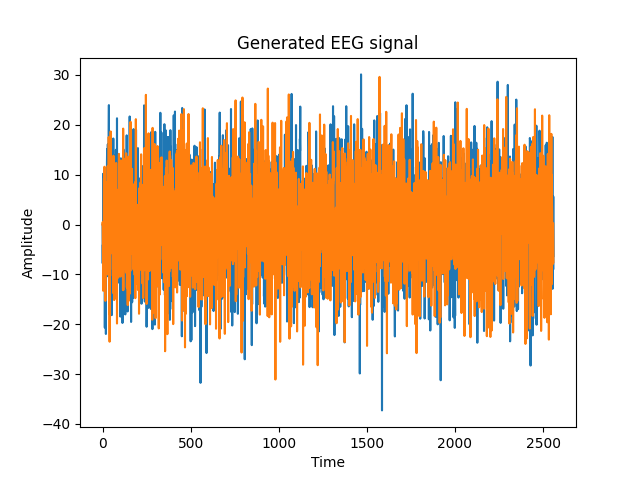
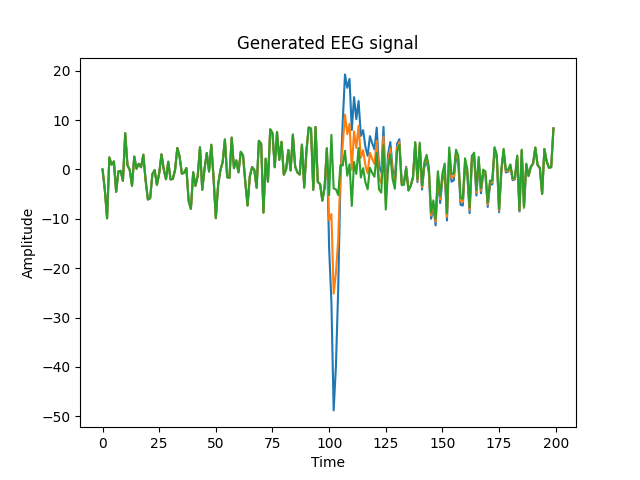
Implement method for creating blink artifact and method for multichannel EEG generation and visualization

diff --git a/templates/components/plot.html b/templates/components/plot.html
@@ -5,6 +5,9 @@
             <div class="card-body shadow-sm m-4">
                 <img src="../../static/signal.png" class="img-fluid" alt="Synthetic EEG signal">
             </div>
+            <div class="card-body shadow-sm m-4">
+                <img src="../../static/signal_multi.png" class="img-fluid" alt="Synthetic EEG signal">
+            </div>
         </div>
     </div>
 </div>

diff --git a/EEGGenerator.py b/EEGGenerator.py
@@ -1,6 +1,7 @@
 import numpy as np
 import random
 import matplotlib.pyplot as plt
+import scipy.signal
 import pandas as pd
 
 
@@ -90,6 +91,31 @@ class EEGGenerator(object):
 
         return eeg_signal
 
+    def simulate_multichannel_eeg(self, artifact=None):
+        low_peak_amplitude_value = -10
+        high_peak_amplitude_value = 10
+
+        alpha_waves = self.create_signal(start_time=self.start_time, end_time=self.end_time, fs=self.fs, 
+            low_peak_amplitude_value=low_peak_amplitude_value,
+            high_peak_amplitude_value=high_peak_amplitude_value,
+            low_frequency=8.0, high_frequency=13.0)  
+
+        blink = self.create_blink_artifact()
+
+        frontal = blink * 200 + alpha_waves
+        central = blink * 100 + alpha_waves
+        parietal = blink * 10 + alpha_waves
+
+        eeg_signal = np.stack([frontal, central, parietal]).T  # shape = (100, 3)
+
+        return eeg_signal
+
+    def create_blink_artifact(self):
+        blink = np.zeros(self.n_samples)
+        blink[self.n_samples//2::200] += -1
+        blink = scipy.signal.lfilter(*scipy.signal.butter(2, [1*2/self.fs, 10*2/self.fs], 'bandpass'), blink)
+        return blink
+
     def visualize(self, signal):
         """Plot the signal.
         """
@@ -98,6 +124,15 @@ class EEGGenerator(object):
         plt.ylabel("Amplitude") 
         plt.plot(signal)
         plt.savefig('static/signal.png')
+
+    def visualize_multichannel(self, signal):
+        plt.subplot(3, 1, 1)
+        plt.plot(signal[:,0] + 50)
+        plt.plot(signal[:,1]+ 100)
+        plt.plot(signal[:,2] + 150)
+        plt.yticks([50, 100, 150], ['Fz', 'Cz', 'Pz'])
+        plt.ylabel('Channels')
+        plt.savefig('static/signal_multi.png') 
 
     def save_to_csv(self, signal):
         """Save to csv file.

diff --git a/main.py b/main.py
@@ -22,10 +22,11 @@ class AlgorithmName(str, Enum):
 
 @app.get('/eeg-generator')
 async def eeg_generator(request: Request):
-    eeg_generator = EEGGenerator(fs=256, start_time=0, end_time=10)
-    signal = eeg_generator.simulate_eeg()
+    eeg_generator = EEGGenerator(fs=100, start_time=0, end_time=2)
+    signal = eeg_generator.simulate_multichannel_eeg()
     eeg_generator.visualize(signal)
-    eeg_generator.save_to_csv(signal)
+    eeg_generator.visualize_multichannel(signal)
+    # eeg_generator.save_to_csv(signal)
     return templates.TemplateResponse("synthetic-eeg-generator.html", {"request": request})
 
 @app.get('/eeg-loader')
